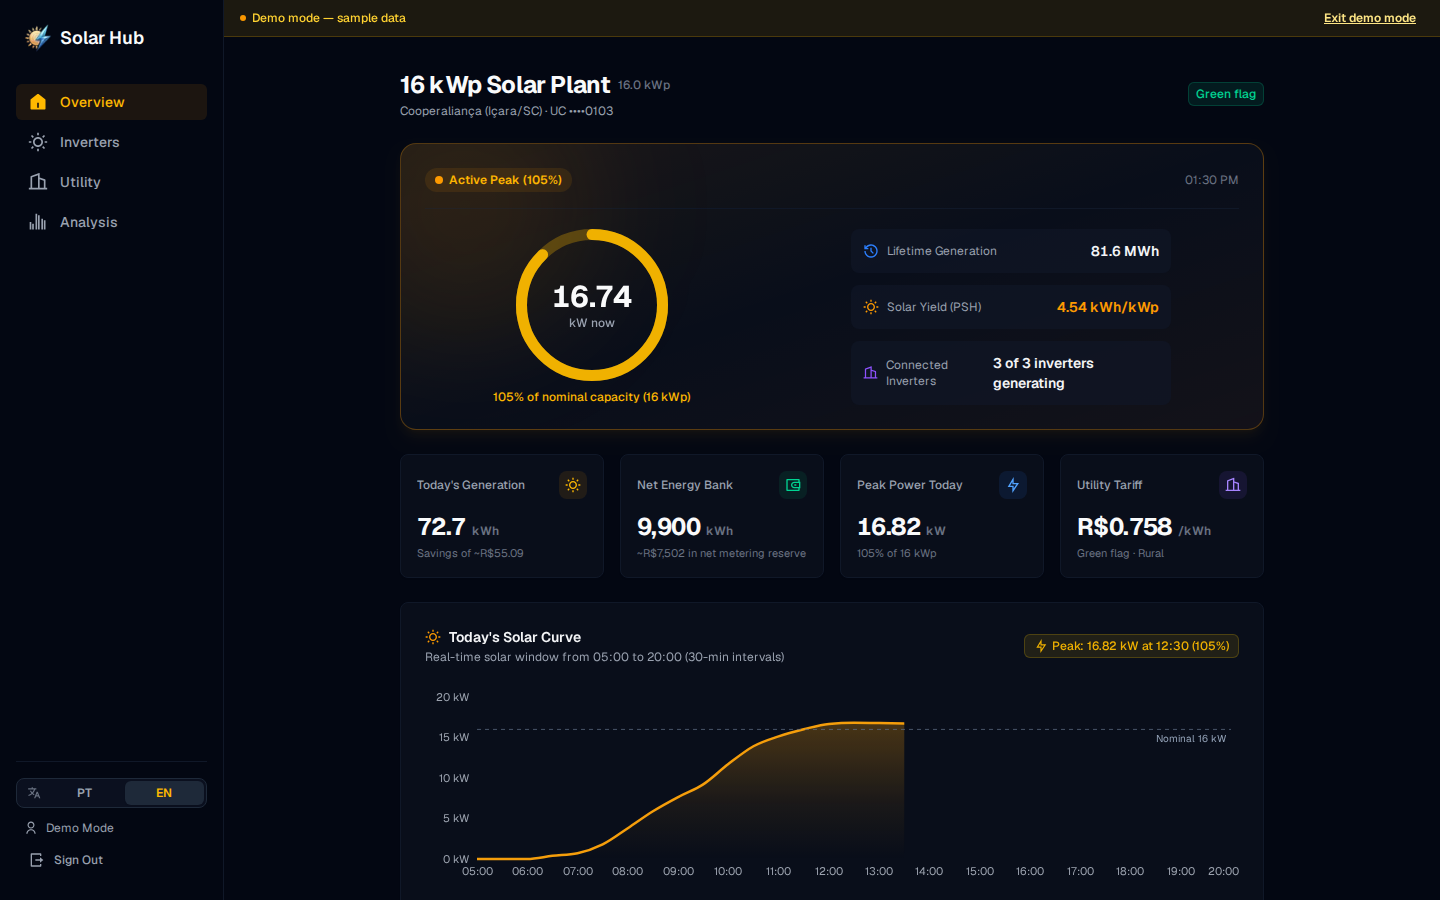
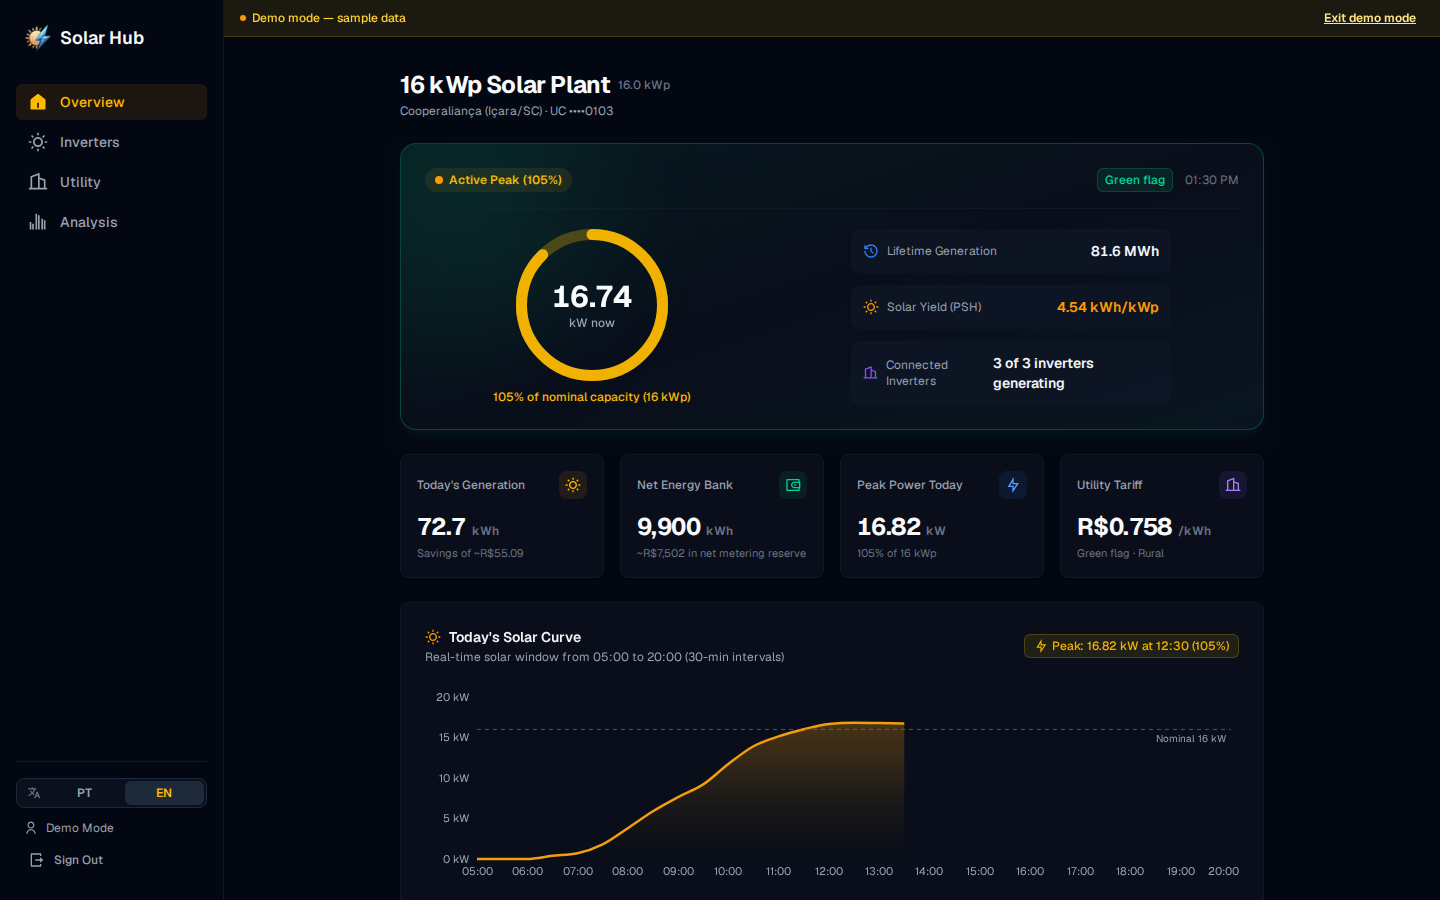
feat(dashboard): tint the power card by tariff flag and show the flag inside it
The tariff flag badge moves from the page header into the power card, next to the reading time, and the card border, gradient and glow follow the flag color while the plant is generating (amber when the flag is unknown).

Changed region(s): [[0.25, 0.1556, 0.4062, 0.3111], [0.8125, 0.0933, 0.875, 0.1244], [0.75, 0.1867, 0.8125, 0.2178]]

diff --git a/dashboard/src/app/page.tsx b/dashboard/src/app/page.tsx
@@ -25,6 +25,27 @@ export const dynamic = "force-dynamic";
 
 const STALE_THRESHOLD_MIN = 30;
 
+/** Hero card tint while generating, following the tariff flag color (amber when the flag is unknown). */
+const HERO_TINT = {
+  success: {
+    card: "border-emerald-500/20 from-emerald-500/[0.07] to-teal-500/[0.04] dark:border-emerald-500/30 shadow-emerald-500/5",
+    glow: "bg-emerald-500/10",
+  },
+  warning: {
+    card: "border-amber-500/20 from-amber-500/[0.07] to-orange-500/[0.04] dark:border-amber-500/30 shadow-amber-500/5",
+    glow: "bg-amber-500/10",
+  },
+  error: {
+    card: "border-red-500/20 from-red-500/[0.07] to-rose-500/[0.04] dark:border-red-500/30 shadow-red-500/5",
+    glow: "bg-red-500/10",
+  },
+} as const;
+
+function heroTint(flag: string | undefined) {
+  const variant = tariffFlagVariant(flag);
+  return variant === "success" || variant === "error" ? HERO_TINT[variant] : HERO_TINT.warning;
+}
+
 export default async function Home() {
   const [{ t, locale }, ds] = await Promise.all([getServerI18n(), getDataSource()]);
   const [telemetry, utilityData, sunCurve, weatherData] = await Promise.all([
@@ -38,6 +59,7 @@ export default async function Home() {
 
   const tariffPerKwh = getTariffPerKwh(utilityData);
   const bandeira = utilityData?.tarifa_referencia?.bandeira_vigente;
+  const tint = heroTint(bandeira);
   const creditBalanceBrl = tariffPerKwh !== null ? creditBalanceKwh * tariffPerKwh : null;
 
   const capacityKw = telemetry?.total_nominal_capacity_kw ?? 16.0;
@@ -86,10 +108,6 @@ export default async function Home() {
             {utilityData?.distribuidora ?? "Cooperaliança"} · UC {maskUcCode(utilityData?.generator_uc)}
           </p>
         </div>
-
-        <div className="flex items-center gap-2">
-          {bandeira && <Badge variant={tariffFlagVariant(bandeira)}>{translateTariffFlag(bandeira, t)}</Badge>}
-        </div>
       </div>
 
       {/* Stale Telemetry Alert (telemetry older than STALE_THRESHOLD_MIN) */}
@@ -113,7 +131,7 @@ export default async function Home() {
         className={cx(
           "relative overflow-hidden rounded-2xl border p-5 md:p-6 transition-all",
           isGenerating
-            ? "border-amber-500/20 bg-gradient-to-br from-amber-500/[0.07] via-transparent to-orange-500/[0.04] dark:border-amber-500/30 shadow-lg shadow-amber-500/5"
+            ? cx("bg-gradient-to-br via-transparent shadow-lg", tint.card)
             : "border-gray-200 dark:border-gray-900 bg-white dark:bg-[#090E1A]"
         )}
       >
@@ -121,7 +139,7 @@ export default async function Home() {
         {isGenerating && (
           <div
             aria-hidden="true"
-            className="pointer-events-none absolute -left-16 -top-16 size-64 rounded-full bg-amber-500/10 blur-3xl"
+            className={cx("pointer-events-none absolute -left-16 -top-16 size-64 rounded-full blur-3xl", tint.glow)}
           />
         )}
 
@@ -157,15 +175,18 @@ export default async function Home() {
             )}
           </div>
 
-          <span className="text-xs text-gray-400 dark:text-gray-500">
-            {telemetry
-              ? new Date(telemetry.recorded_at).toLocaleTimeString(locale === "pt-BR" ? "pt-BR" : "en-US", {
-                  timeZone: "America/Sao_Paulo",
-                  hour: "2-digit",
-                  minute: "2-digit",
-                })
-              : "—"}
-          </span>
+          <div className="flex items-center gap-3">
+            {bandeira && <Badge variant={tariffFlagVariant(bandeira)}>{translateTariffFlag(bandeira, t)}</Badge>}
+            <span className="text-xs text-gray-400 dark:text-gray-500">
+              {telemetry
+                ? new Date(telemetry.recorded_at).toLocaleTimeString(locale === "pt-BR" ? "pt-BR" : "en-US", {
+                    timeZone: "America/Sao_Paulo",
+                    hour: "2-digit",
+                    minute: "2-digit",
+                  })
+                : "—"}
+            </span>
+          </div>
         </div>
 
         {/* Hero Center: Circular Gauge + Impact Metrics */}
